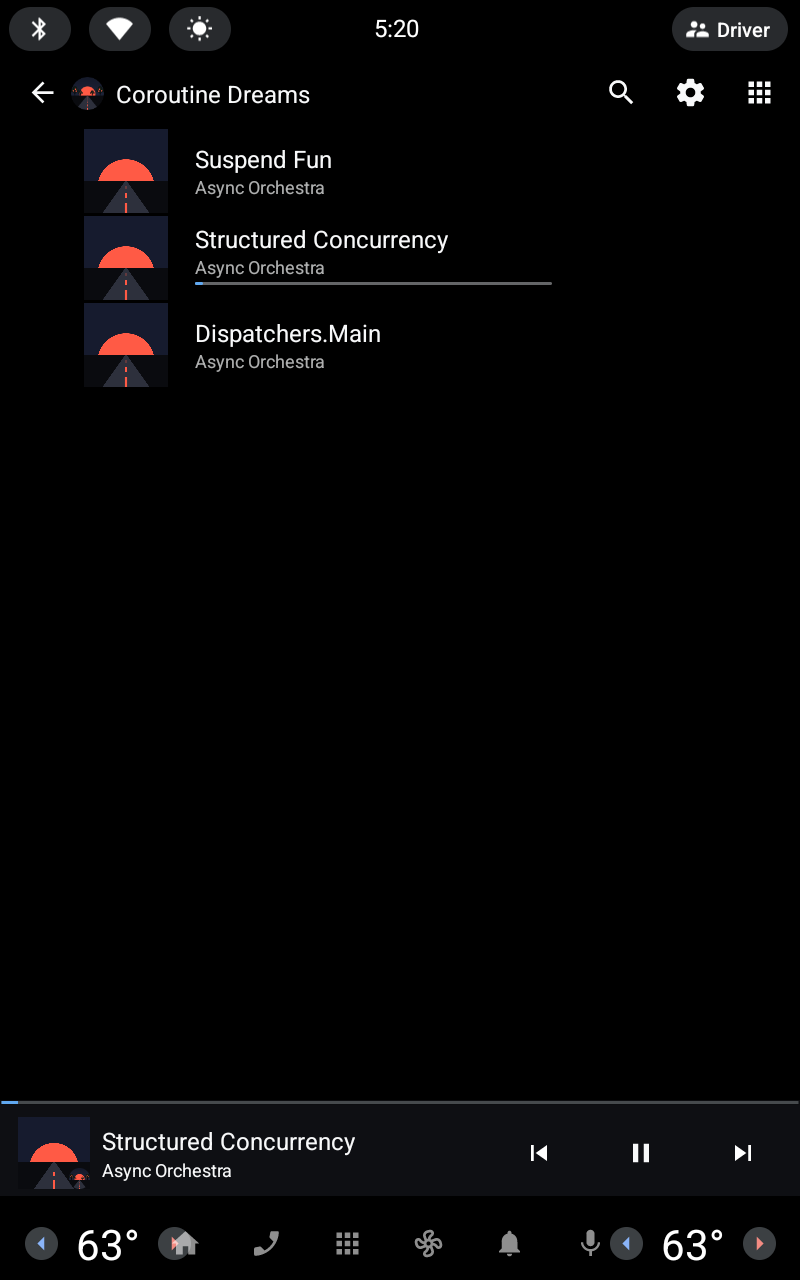
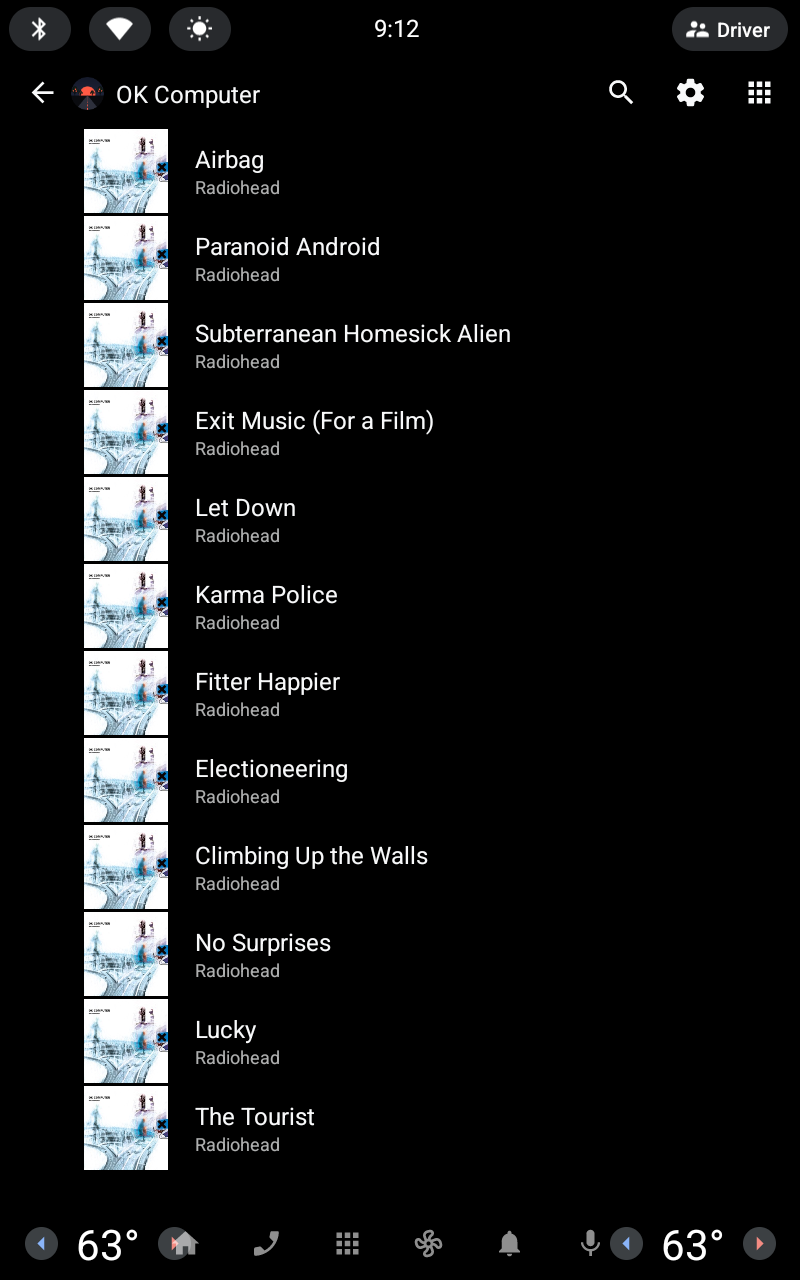
Retake store screenshots with a real Apple Music library

diff --git a/docs/PLAY_INTERNAL_TESTING.md b/docs/PLAY_INTERNAL_TESTING.md
@@ -13,7 +13,7 @@ review** (that only applies to production) ([Distribute to cars](https://develop
 | Package name | `com.dverba.aaosmusic` (permanent) |
 | App icon 512×512 | `store/icon-512.png` |
 | Feature graphic 1024×500 | `store/feature-graphic-1024x500.png` |
-| Car screenshots | `store/screenshots/landscape/` (1024×768) and `store/screenshots/portrait/` (800×1280), demo library |
+| Car screenshots | `store/screenshots/landscape/` (1024×768) and `store/screenshots/portrait/` (800×1280), real Apple Music library |
 | Privacy policy | https://dverba.github.io/aaosmusic-signin/privacy.html |
 
 Target API 35 meets Play's Automotive minimum (API 35 from 31 Aug 2026; phones need 36). The 64-bit
@@ -74,8 +74,9 @@ track for Android Automotive OS"** → **Save**
 - **Phone screenshots: required (at least 2)**, even for a car-only app. Use `store/screenshots/landscape/`.
 - **Android Automotive OS screenshots** (at least 2 of each): `store/screenshots/landscape/*.png` (1024×768) and
   `store/screenshots/portrait/*.png` (800×1280). They were captured, unscaled, on Google's generic AAOS image with
-  the *Automotive (1024p landscape)* and *Automotive Portrait* emulator profiles, as Play asks, using the demo
-  library (and the Apple build's signed-out Settings for `05-settings.png`).
+  the *Automotive (1024p landscape)* and *Automotive Portrait* emulator profiles, as Play asks, from the
+  Apple build signed in to a real library (the token restored via `run-as --user 10` into
+  `shared_prefs/apple_music_auth.xml`); `05-settings.png` is the signed-out sign-in screen.
 - Feature graphic source: `store/feature-graphic.html` (renders `store/icon.svg`). Re-render with
   `"/Applications/Google Chrome.app/Contents/MacOS/Google Chrome" --headless=new --hide-scrollbars --force-device-scale-factor=1 --window-size=1024,500 --screenshot=$PWD/store/feature-graphic-1024x500.png file://$PWD/store/feature-graphic.html`;
   icon: `rsvg-convert -w 512 -h 512 store/icon.svg -o store/icon-512.png`.
